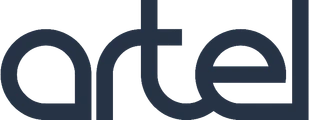
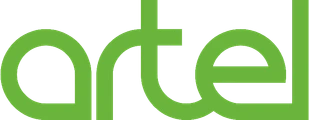
feat(бренды): Artel, Hitachi и Beko в фирменных цветах
Artel — зелёный, Hitachi — красная надпись без слогана, Beko — голубой
с полосой (исходник прислал владелец). process.cjs: цвет ink, обрезка
topBand, запуск только для нужных брендов. Длинным логотипам — до 170px.

diff --git a/src/components/BrandLogo.tsx b/src/components/BrandLogo.tsx
@@ -178,7 +178,7 @@ export function BrandLogo({ brand, className }: { brand: string; className?: str
   if (image) {
     const aspect = image.w / image.h
     const height = Math.round(Math.min(52, Math.max(22, Math.sqrt(2600 / aspect))))
-    const width = Math.round(Math.min(150, height * aspect))
+    const width = Math.round(Math.min(170, height * aspect))
     return (
       <span className={`brand-logo brand-logo--image${className ? ` ${className}` : ''}`}>
         {/* eslint-disable-next-line @next/next/no-img-element */}

diff --git a/public/Бренд лого/wikimedia/SOURCES.md b/public/Бренд лого/wikimedia/SOURCES.md
@@ -10,7 +10,7 @@
 | CHANGHONG | File:Changhong.svg | Public domain |
 | ASKO | File:ASKO logo.png | Public domain |
 | BOSCH | File:Bosch-logo.svg | Public domain |
-| BEKO | File:Beko Germany Logo 2023.svg | Public domain |
+| BEKO | BEKO.render.png — прислал владелец 22.09.2026 (голубой, с полосой); BEKO.svg — старый, File:Beko Germany Logo 2023.svg | Public domain |
 | HITACHI | File:Hitachi logo LIGHT HIRES.svg | Public domain |
 | ARISTON | File:Ariston logo.svg | Public domain |
 | GORENJE | File:Gorenje logo 2024.svg | Public domain |
